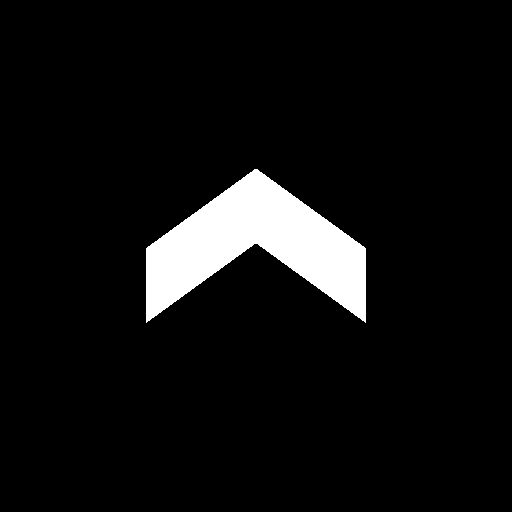
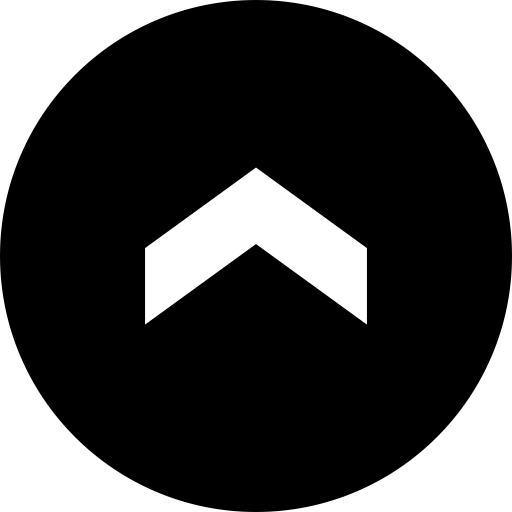
finalized: to top arrow in footer

diff --git a/css/footer.css b/css/footer.css
@@ -8,17 +8,21 @@ footer {
   align-items: flex-start;
 }
 
-#footer-a-toTop img {
-  width: 80px;
-  height: 80px;
-}
-
 #footer-a-toTop {
   margin: 0;
-  align-self: center;
   background-color: rgb(255, 235, 205);
+  border-radius: 10%;
+  height: 40px;
+  width: 40px;
+  padding: 0.1rem;
+}
 
+#footer-a-toTop:hover {
+  box-shadow: 1px 1px 14px whitesmoke;
+}
 
+#footer-a-toTop:active {
+  box-shadow: 1px 1px 25px whitesmoke;
 }
 
 #footer-a {
@@ -37,6 +41,9 @@ footer {
   text-shadow: 4px 4px 10px whitesmoke;
 }
 
+.to-top {
+  align-self: center;
+}
 .attributions {
   line-height: 0.5em;
 }

diff --git a/index.html b/index.html
@@ -199,10 +199,9 @@
       </section>
     </main>
 
-    
  
   <footer id="footer">
-    <a  id="footer-a-toTop" href="#body"><img src="images/round-arrow-top.png"></a>
+    <a class="to-top" href="#body"><img id="footer-a-toTop" src="images/round-arrow-top.png"></a>
       <div class="attributions">
         <p>Images borrowed from http://www.performancepilates.com.au/</p>
         <p>This is a fictional site for educational purposes&nbsp;only</p>
